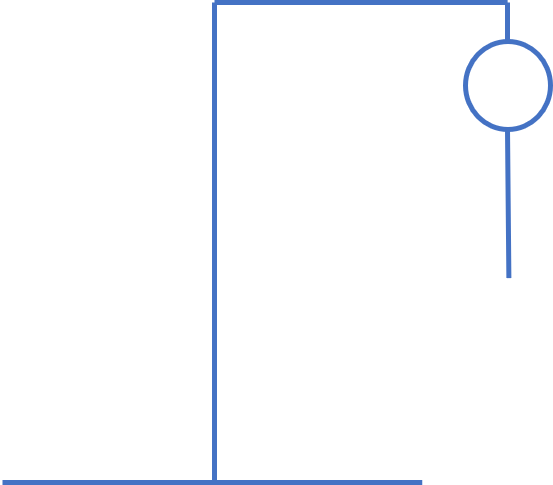
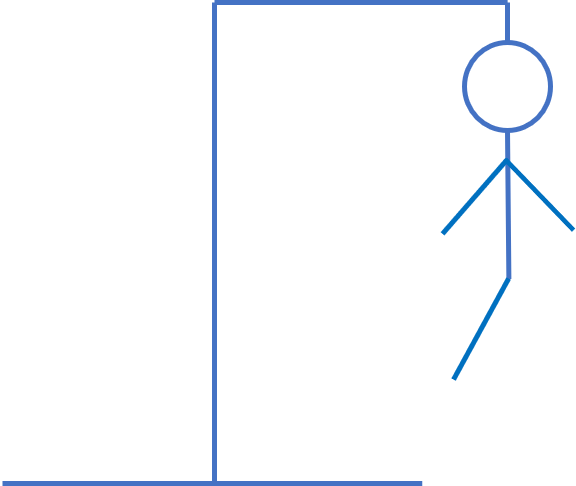
Lógica de juego finalizada

diff --git a/js/app.js b/js/app.js
@@ -1,10 +1,12 @@
 ;(function(){
-    let juego = {
-        palabra: "ALURA",
-        estado: 4,
-        adivinado: ['A','L'],
-        errado: ['B','J','K','C']
-    }
+    'use strict'
+
+    const palabras = ['ALURA', 'SCRIPT','GITHUB','VISUAL','ESTUDIO','CONSOLA','ADMIN','SCRIPT','ESTILO','CASCADA','CABALLO','OVEJA','CABRA','AUDIO','SONIDO','PROFETA','PINGO','KATANA','ORACLE','JUEGO','PROGRAMA','GRATUITO','YOUTUBE','DIRECTO'];
+     
+    // variable para almacenar la configuracion actual           
+    let juego = null
+    //para ver si ya se ha enviada alguna alerta
+    let finalizado = false
 
     let $html = {
         hombre: document.getElementById('hombre'),
@@ -13,11 +15,17 @@
     }
 
     function dibujar(juego){
+        //Actualizar imagen
         let $elem
         $elem = $html.hombre
+
         let estado = juego.estado
+        if(juego.estado===8){
+            estado = juego.previo
+        }
         $elem.src = 'imagenes/0' + estado + '.png'
 
+        //Creamos las letras adivinadas
         let palabra = juego.palabra
         let adivinado = juego.adivinado
         $elem = $html.adivinado
@@ -34,6 +42,7 @@
             $elem.appendChild($span)
         }
 
+        //Creamos las letras erradas
         let errado = juego.errado
         $elem = $html.errado
         //Borramos los elementos anteriores
@@ -51,8 +60,8 @@
     function adivinar(juego, letra){
         let estado = juego.estado
         // si ya se a perdido o ganado, nada que hacer
-        if (estado===0 || estado===8){
-            return
+        if (estado===1 || estado===8){
+            return  
         }
 
         let adivinado = juego.adivinado
@@ -76,30 +85,62 @@
             }
             //si ya se ha ganado debemos indicarlo 
             if(ganado){
-                alert('Felicitaciones! Usted ganó')
+                juego.estado = 8;
             }
             //agregar la letra a la lista de letras adivinadas
             adivinado.push(letra)
         }
         else{
             //si no es letra de la palabra, acercamos al hombre un paso mas a ser ahorcado y agregamos la letr a las letras erradas
-            juego.estado++
+            juego.estado = juego.estado-1
             errado.push(letra)
         }
     }
 
     window.onkeypress = function adivinarLetra(e){
         let letra = e.key
-        letra = letra.toUpperCase()
-        if(/[A-ZÑ]/.test(letra)){
-            adivinar(juego,letra)
-            dibujar(juego)
+        letra = letra.toUpperCase() 
+        if(/[^A-ZÑ]/.test(letra)){
+            return
         }
-        else{
-            alert('Solo letras')
+        adivinar(juego, letra)
+        let estado = juego.estado
+        if(estado === 8 && !finalizado){
+            alertaGanado()
+            finalizado = true
+        }else if(estado === 1 && !finalizado){
+            let palabra = juego.palabra
+            alertaPerdido(palabra)
+            finalizado = true
         }
-        
+        dibujar(juego)
     }
 
-    dibujar(juego)
+    window.nuevoJuego = function nuevoJuego(){
+        let palabra = palabraAleatoria()
+        juego = {}
+        juego.palabra = palabra
+        juego.estado = 7
+        juego.adivinado = []
+        juego.errado = []
+        finalizado = false
+        dibujar(juego)
+        console.log(juego)
+    }
+
+    function palabraAleatoria(){
+        let index = Math.trunc(Math.random() * palabras.length)
+        return palabras[index]
+    }
+
+    function alertaGanado(){
+        alert('Felicidades, ganaste!')
+    }
+
+    function alertaPerdido(palabra){
+        alert('Lo siento, perdiste... La palabra era: '+palabra)
+    }
+
+    nuevoJuego()
+    console.log(juego)
 }())

diff --git a/index.html b/index.html
@@ -26,7 +26,7 @@
         <div class="adivinado"></div>
         <div class="errado"></div>
         <form class="botones">
-            <input type="button" class="azul" value="Nuevo Juego">
+            <input type="button" class="azul" value="Nuevo Juego" onclick="nuevoJuego()">
             <input type="button" class="default" value="Desistir">
         </form>
     </main>
